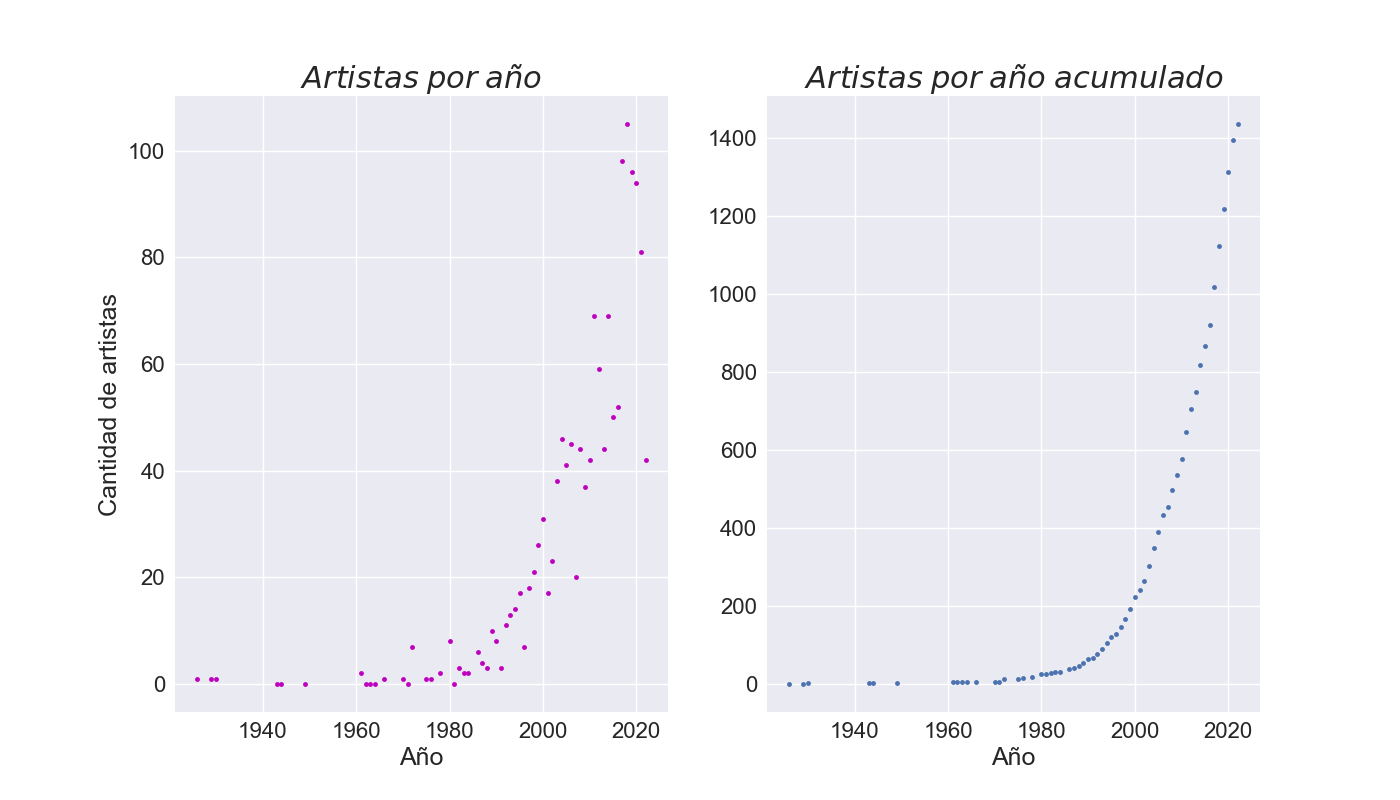
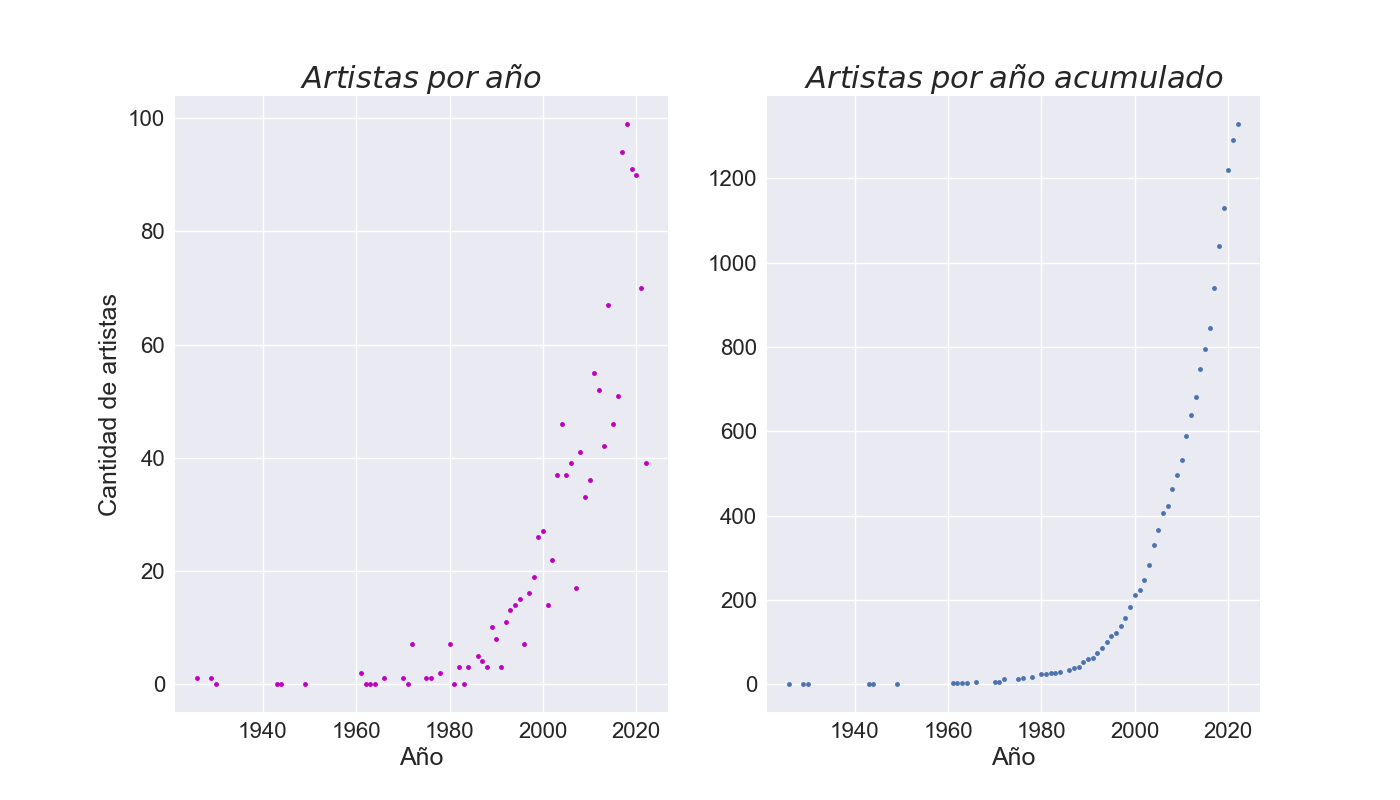
Agrego codigo de analisis temporal
codigo para analizar la cantidad de artistas y canciones por año

diff --git a/Analisis del crecimiento de la red en el tiempo.py b/Analisis del crecimiento de la red en el tiempo.py
@@ -1,0 +1,124 @@
+#%%-----------------------------------------------------------------
+import pickle
+import numpy as np
+import matplotlib.pyplot as plt
+import pandas as pd
+import pickle
+from tqdm import tqdm 
+from unicodedata import normalize
+
+plt.style.use("seaborn")
+#%%----------Definimos una funcion para sacar tildes y mayusculas a strings----------
+
+def normalizar(string):
+    trans_tab = dict.fromkeys(map(ord, u'\u0301\u0308'), None)
+    string_normalizado = normalize('NFKC', normalize('NFKD', string).translate(trans_tab)).lower().replace(" ", "")
+    return string_normalizado
+
+#%%-----------------------Cargamos el multigrafo---------------------------
+with open(f"red_filtrada/red_filtrada.gpickle", "rb") as f:
+    G = pickle.load(f)
+
+#%%
+# Defino una función para encontrar la fecha donde salió la primera colaboración de un artista
+def encontrar_fecha_menor(lista_fechas):
+
+    año_menor = min([fecha[0:4] for fecha in lista_fechas])
+    # Por si se quiere ver el mes
+    #mes_menor = min([fecha[5:7] for fecha in lista_fechas if fecha[0:4] == año_menor])
+    fecha_menor = int(año_menor)
+
+    return fecha_menor
+
+#%%------------------------Agrego el atributo de fecha a los nodos----------------------
+lista_nodos = list(G.nodes())
+
+for nodo in lista_nodos:
+    lista_fechas = []
+    for item in G[nodo].items():
+        fecha = item[1][0]["fecha"]
+        lista_fechas.append(fecha)
+
+    fecha_aparicion = encontrar_fecha_menor(lista_fechas)
+    G.nodes[nodo]["fecha_aparicion"] = fecha_aparicion
+#%% Vemos cuantos artistas aparecen cada año
+fig, axs = plt.subplots(ncols = 2, figsize = (14,8))
+
+# Guardo en un diccionario cuantos nodos aparecen por año
+dic_años = {}
+
+for nodo in lista_nodos:
+    año = (G.nodes())[nodo]["fecha_aparicion"]
+    if año in dic_años.keys():
+        dic_años[año] += 1
+    else:
+        dic_años[año] = 0
+
+# Ordeno el diccionario por año
+lista_años_ordenados = sorted(dic_años)
+dic_años_ordenado = {año_ordenado:dic_años[año_ordenado]  for año_ordenado in lista_años_ordenados}
+
+# Guardo en una lista la cantidad de artistas totales de la red en cada año
+artistas_acumulados_año = []
+
+for i, año in enumerate(dic_años_ordenado):
+    artistas_acumulados_año.append(dic_años_ordenado[año])
+    if i > 0:
+        artistas_acumulados_año[i] += artistas_acumulados_año[i-1]
+
+axs[0].plot(dic_años_ordenado.keys(),dic_años_ordenado.values(),".", c = "m")
+axs[0].set_title("$Artistas\;por\;año$",fontsize = 22)
+axs[0].set_xlabel("Año",fontsize = 18)
+axs[0].set_ylabel("Cantidad de artistas", fontsize = 18)
+axs[0].tick_params(axis = "both", labelsize = 16)
+
+axs[1].plot(dic_años_ordenado.keys(), artistas_acumulados_año, ".")
+axs[1].set_title("$Artistas\;por\;año\;acumulado$",fontsize = 22)
+axs[1].set_xlabel("Año",fontsize = 18)
+axs[1].tick_params(axis = "both", labelsize = 16)
+
+plt.savefig("imagenes del analisis/artistas por año.png")
+plt.show()
+#%%-------------Analisis de cuantas canciones se hicieron en cada año----------------
+
+# Guardo en un diccionario cuantas colaboraciones hubo en cada año
+dic_canciones_por_año = {}
+lista_canciones = list(G.edges(data = True))
+
+for cancion in lista_canciones:
+    año = int(cancion[2]["fecha"][:4])
+ 
+    if año in dic_canciones_por_año.keys():
+        dic_canciones_por_año[año] += 1
+    else:
+        dic_canciones_por_año[año] = 0
+
+# Ordeno el diccionario por años
+lista_años_ordenados = sorted(dic_canciones_por_año)
+dic_canciones_por_año_ordenado = {año_ordenado:dic_canciones_por_año[año_ordenado]  for año_ordenado in lista_años_ordenados}
+
+# Guardo en una lista la cantidad de artistas totales de la red en cada año
+canciones_acumuladas_por_año = []
+
+for i, año in enumerate(dic_canciones_por_año_ordenado):
+    canciones_acumuladas_por_año.append(dic_canciones_por_año_ordenado[año])
+    if i > 0:
+        canciones_acumuladas_por_año[i] += canciones_acumuladas_por_año[i-1]
+
+#%%-----------------Vemos cantas colaboraciones se hacen en cada año-----------------
+fig, axs = plt.subplots(ncols = 2, figsize = (16,8))
+
+axs[0].plot(dic_canciones_por_año_ordenado.keys(),dic_canciones_por_año_ordenado.values(),".", c = "m")
+axs[0].set_title("$Colaboraciones\;por\;año$",fontsize = 22)
+axs[0].set_xlabel("Año",fontsize = 18)
+axs[0].set_ylabel("Cantidad de colaboraciones", fontsize = 18)
+axs[0].tick_params(axis = "both", labelsize = 16)
+
+axs[1].plot(dic_canciones_por_año_ordenado.keys(), canciones_acumuladas_por_año, ".")
+axs[1].set_title("$Colaboraciones\;por\;año\;acumuladas$",fontsize = 22)
+axs[1].set_xlabel("Año",fontsize = 18)
+axs[1].tick_params(axis = "both", labelsize = 16)
+
+plt.savefig("imagenes del analisis/Colaboraciones por año.png")
+plt.show()
+# %%
